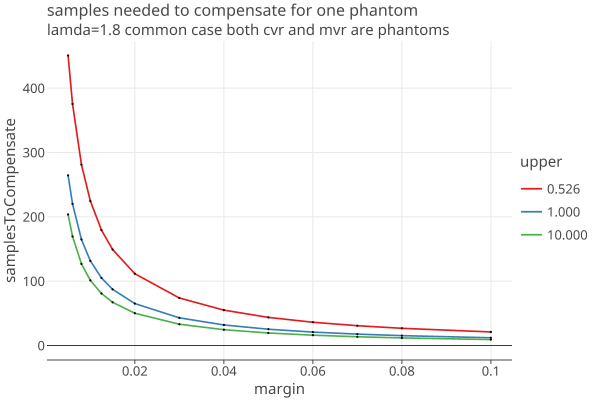
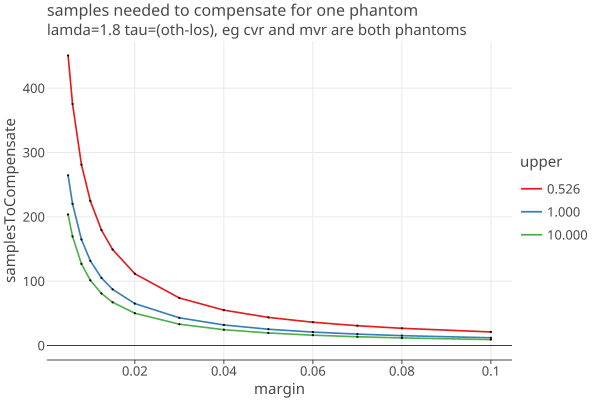
update docs pass 3

Changed region(s): [[0.21, 0.06, 0.78, 0.09]]

diff --git a/docs/plots2/betting/errorComp/phantomMvr.html b/docs/plots2/betting/errorComp/phantomMvr.html
@@ -5,7 +5,7 @@
        &lt;script type=&quot;text/javascript&quot; data-lets-plot-script=&quot;library&quot; src=&quot;https://cdn.jsdelivr.net/gh/JetBrains/lets-plot@v4.7.3/js-package/distr/lets-plot.min.js&quot;>&lt;/script>
    &lt;/head>
    &lt;body>
-          &lt;div id=&quot;qKUZuP&quot;>&lt;/div>
+          &lt;div id=&quot;WTQVve&quot;>&lt;/div>
    &lt;script type=&quot;text/javascript&quot; data-lets-plot-script=&quot;plot&quot;>
    
    (function() {
@@ -30,7 +30,7 @@
        };
    }
    
-   const containerDiv = document.getElementById(&quot;qKUZuP&quot;);
+   const containerDiv = document.getElementById(&quot;WTQVve&quot;);
    let fig = null;
    
    function renderPlot() {
@@ -38,7 +38,7 @@
            const plotSpec = {
 &quot;ggtitle&quot;:{
 &quot;text&quot;:&quot;samples needed to compensate for one phantom&quot;,
-&quot;subtitle&quot;:&quot;lamda=1.8 tau=(oth-los), eg cvr and mvr are both phantoms&quot;
+&quot;subtitle&quot;:&quot;lamda=1.8 cvr is winner and mvr is phantom&quot;
 },
 &quot;mapping&quot;:{
 },
@@ -70,10 +70,10 @@
 },
 &quot;stat&quot;:&quot;identity&quot;,
 &quot;data&quot;:{
-&quot;&amp;merged_groups&quot;:[&quot;0.526&quot;,&quot;0.526&quot;,&quot;0.526&quot;,&quot;0.526&quot;,&quot;0.526&quot;,&quot;0.526&quot;,&quot;0.526&quot;,&quot;0.526&quot;,&quot;0.526&quot;,&quot;0.526&quot;,&quot;0.526&quot;,&quot;0.526&quot;,&quot;0.526&quot;,&quot;0.526&quot;,&quot;1.000&quot;,&quot;1.000&quot;,&quot;1.000&quot;,&quot;1.000&quot;,&quot;1.000&quot;,&quot;1.000&quot;,&quot;1.000&quot;,&quot;1.000&quot;,&quot;1.000&quot;,&quot;1.000&quot;,&quot;1.000&quot;,&quot;1.000&quot;,&quot;1.000&quot;,&quot;1.000&quot;,&quot;10.000&quot;,&quot;10.000&quot;,&quot;10.000&quot;,&quot;10.000&quot;,&quot;10.000&quot;,&quot;10.000&quot;,&quot;10.000&quot;,&quot;10.000&quot;,&quot;10.000&quot;,&quot;10.000&quot;,&quot;10.000&quot;,&quot;10.000&quot;,&quot;10.000&quot;,&quot;10.000&quot;],
 &quot;margin&quot;:[0.005,0.006,0.008,0.01,0.0125,0.015,0.02,0.03,0.04,0.05,0.06,0.07,0.08,0.1,0.005,0.006,0.008,0.01,0.0125,0.015,0.02,0.03,0.04,0.05,0.06,0.07,0.08,0.1,0.005,0.006,0.008,0.01,0.0125,0.015,0.02,0.03,0.04,0.05,0.06,0.07,0.08,0.1],
+&quot;&amp;merged_groups&quot;:[&quot;0.526&quot;,&quot;0.526&quot;,&quot;0.526&quot;,&quot;0.526&quot;,&quot;0.526&quot;,&quot;0.526&quot;,&quot;0.526&quot;,&quot;0.526&quot;,&quot;0.526&quot;,&quot;0.526&quot;,&quot;0.526&quot;,&quot;0.526&quot;,&quot;0.526&quot;,&quot;0.526&quot;,&quot;1.000&quot;,&quot;1.000&quot;,&quot;1.000&quot;,&quot;1.000&quot;,&quot;1.000&quot;,&quot;1.000&quot;,&quot;1.000&quot;,&quot;1.000&quot;,&quot;1.000&quot;,&quot;1.000&quot;,&quot;1.000&quot;,&quot;1.000&quot;,&quot;1.000&quot;,&quot;1.000&quot;,&quot;10.000&quot;,&quot;10.000&quot;,&quot;10.000&quot;,&quot;10.000&quot;,&quot;10.000&quot;,&quot;10.000&quot;,&quot;10.000&quot;,&quot;10.000&quot;,&quot;10.000&quot;,&quot;10.000&quot;,&quot;10.000&quot;,&quot;10.000&quot;,&quot;10.000&quot;,&quot;10.000&quot;],
 &quot;upper&quot;:[&quot;0.526&quot;,&quot;0.526&quot;,&quot;0.526&quot;,&quot;0.526&quot;,&quot;0.526&quot;,&quot;0.526&quot;,&quot;0.526&quot;,&quot;0.526&quot;,&quot;0.526&quot;,&quot;0.526&quot;,&quot;0.526&quot;,&quot;0.526&quot;,&quot;0.526&quot;,&quot;0.526&quot;,&quot;1.000&quot;,&quot;1.000&quot;,&quot;1.000&quot;,&quot;1.000&quot;,&quot;1.000&quot;,&quot;1.000&quot;,&quot;1.000&quot;,&quot;1.000&quot;,&quot;1.000&quot;,&quot;1.000&quot;,&quot;1.000&quot;,&quot;1.000&quot;,&quot;1.000&quot;,&quot;1.000&quot;,&quot;10.000&quot;,&quot;10.000&quot;,&quot;10.000&quot;,&quot;10.000&quot;,&quot;10.000&quot;,&quot;10.000&quot;,&quot;10.000&quot;,&quot;10.000&quot;,&quot;10.000&quot;,&quot;10.000&quot;,&quot;10.000&quot;,&quot;10.000&quot;,&quot;10.000&quot;,&quot;10.000&quot;],
-&quot;samplesToCompensate&quot;:[450.73346273057285,375.3567307214835,281.1356381797272,224.60279275466985,179.37630199200353,149.22510882329695,111.53566632602835,73.84500900585952,54.99844798340472,43.68950825064921,36.14936441990801,30.76280526866057,26.72222487526634,21.063787221225176,264.43069263138386,220.14642924006787,164.79106911177584,131.57782005010625,105.00718363979364,87.29339157141649,65.15107377602841,43.00854794889624,31.93707584378167,25.294024102450862,20.865181594255727,17.701600681973773,15.328807538264904,12.006636866218702,203.61682286321644,169.51020146114692,126.87692449104908,101.29695807703726,80.8329846847646,67.19033551483017,50.13702350843178,33.08371005074382,24.55705186984873,19.44105579891348,16.030390782336724,13.594200653424542,11.76705732883267,9.209054925915632]
+&quot;samplesToCompensate&quot;:[536.8852679091235,447.1695651051687,335.02481224923247,267.7378275451257,213.90808965396533,178.02145820426563,133.1628532993993,88.30339893323907,65.87281083364601,52.41375799639613,43.440463176978795,37.03045019753686,32.22248077329216,25.490195202397953,1021.9635847778693,851.4016394287654,638.1991426423307,510.2775750346166,407.9402425800391,339.71528157304397,254.43391627684412,169.15211141655288,126.51076635063215,100.9256022194716,83.8685260367704,71.68464077950563,62.54649791041474,49.75254215690585,10232.304345905057,8526.685749864806,6394.662498333337,5115.448540504431,4092.0773664621606,3409.8299098968023,2557.020572980989,1704.211192813598,1277.8064594495418,1021.9635847778693,851.4016394287654,729.5716536719206,638.1991426423307,510.2775750346166]
 },
 &quot;sampling&quot;:&quot;none&quot;,
 &quot;inherit_aes&quot;:false,
@@ -102,10 +102,10 @@
 },
 &quot;stat&quot;:&quot;identity&quot;,
 &quot;data&quot;:{
-&quot;&amp;merged_groups&quot;:[&quot;0.526&quot;,&quot;0.526&quot;,&quot;0.526&quot;,&quot;0.526&quot;,&quot;0.526&quot;,&quot;0.526&quot;,&quot;0.526&quot;,&quot;0.526&quot;,&quot;0.526&quot;,&quot;0.526&quot;,&quot;0.526&quot;,&quot;0.526&quot;,&quot;0.526&quot;,&quot;0.526&quot;,&quot;1.000&quot;,&quot;1.000&quot;,&quot;1.000&quot;,&quot;1.000&quot;,&quot;1.000&quot;,&quot;1.000&quot;,&quot;1.000&quot;,&quot;1.000&quot;,&quot;1.000&quot;,&quot;1.000&quot;,&quot;1.000&quot;,&quot;1.000&quot;,&quot;1.000&quot;,&quot;1.000&quot;,&quot;10.000&quot;,&quot;10.000&quot;,&quot;10.000&quot;,&quot;10.000&quot;,&quot;10.000&quot;,&quot;10.000&quot;,&quot;10.000&quot;,&quot;10.000&quot;,&quot;10.000&quot;,&quot;10.000&quot;,&quot;10.000&quot;,&quot;10.000&quot;,&quot;10.000&quot;,&quot;10.000&quot;],
 &quot;margin&quot;:[0.005,0.006,0.008,0.01,0.0125,0.015,0.02,0.03,0.04,0.05,0.06,0.07,0.08,0.1,0.005,0.006,0.008,0.01,0.0125,0.015,0.02,0.03,0.04,0.05,0.06,0.07,0.08,0.1,0.005,0.006,0.008,0.01,0.0125,0.015,0.02,0.03,0.04,0.05,0.06,0.07,0.08,0.1],
+&quot;&amp;merged_groups&quot;:[&quot;0.526&quot;,&quot;0.526&quot;,&quot;0.526&quot;,&quot;0.526&quot;,&quot;0.526&quot;,&quot;0.526&quot;,&quot;0.526&quot;,&quot;0.526&quot;,&quot;0.526&quot;,&quot;0.526&quot;,&quot;0.526&quot;,&quot;0.526&quot;,&quot;0.526&quot;,&quot;0.526&quot;,&quot;1.000&quot;,&quot;1.000&quot;,&quot;1.000&quot;,&quot;1.000&quot;,&quot;1.000&quot;,&quot;1.000&quot;,&quot;1.000&quot;,&quot;1.000&quot;,&quot;1.000&quot;,&quot;1.000&quot;,&quot;1.000&quot;,&quot;1.000&quot;,&quot;1.000&quot;,&quot;1.000&quot;,&quot;10.000&quot;,&quot;10.000&quot;,&quot;10.000&quot;,&quot;10.000&quot;,&quot;10.000&quot;,&quot;10.000&quot;,&quot;10.000&quot;,&quot;10.000&quot;,&quot;10.000&quot;,&quot;10.000&quot;,&quot;10.000&quot;,&quot;10.000&quot;,&quot;10.000&quot;,&quot;10.000&quot;],
 &quot;upper&quot;:[&quot;0.526&quot;,&quot;0.526&quot;,&quot;0.526&quot;,&quot;0.526&quot;,&quot;0.526&quot;,&quot;0.526&quot;,&quot;0.526&quot;,&quot;0.526&quot;,&quot;0.526&quot;,&quot;0.526&quot;,&quot;0.526&quot;,&quot;0.526&quot;,&quot;0.526&quot;,&quot;0.526&quot;,&quot;1.000&quot;,&quot;1.000&quot;,&quot;1.000&quot;,&quot;1.000&quot;,&quot;1.000&quot;,&quot;1.000&quot;,&quot;1.000&quot;,&quot;1.000&quot;,&quot;1.000&quot;,&quot;1.000&quot;,&quot;1.000&quot;,&quot;1.000&quot;,&quot;1.000&quot;,&quot;1.000&quot;,&quot;10.000&quot;,&quot;10.000&quot;,&quot;10.000&quot;,&quot;10.000&quot;,&quot;10.000&quot;,&quot;10.000&quot;,&quot;10.000&quot;,&quot;10.000&quot;,&quot;10.000&quot;,&quot;10.000&quot;,&quot;10.000&quot;,&quot;10.000&quot;,&quot;10.000&quot;,&quot;10.000&quot;],
-&quot;samplesToCompensate&quot;:[450.73346273057285,375.3567307214835,281.1356381797272,224.60279275466985,179.37630199200353,149.22510882329695,111.53566632602835,73.84500900585952,54.99844798340472,43.68950825064921,36.14936441990801,30.76280526866057,26.72222487526634,21.063787221225176,264.43069263138386,220.14642924006787,164.79106911177584,131.57782005010625,105.00718363979364,87.29339157141649,65.15107377602841,43.00854794889624,31.93707584378167,25.294024102450862,20.865181594255727,17.701600681973773,15.328807538264904,12.006636866218702,203.61682286321644,169.51020146114692,126.87692449104908,101.29695807703726,80.8329846847646,67.19033551483017,50.13702350843178,33.08371005074382,24.55705186984873,19.44105579891348,16.030390782336724,13.594200653424542,11.76705732883267,9.209054925915632]
+&quot;samplesToCompensate&quot;:[536.8852679091235,447.1695651051687,335.02481224923247,267.7378275451257,213.90808965396533,178.02145820426563,133.1628532993993,88.30339893323907,65.87281083364601,52.41375799639613,43.440463176978795,37.03045019753686,32.22248077329216,25.490195202397953,1021.9635847778693,851.4016394287654,638.1991426423307,510.2775750346166,407.9402425800391,339.71528157304397,254.43391627684412,169.15211141655288,126.51076635063215,100.9256022194716,83.8685260367704,71.68464077950563,62.54649791041474,49.75254215690585,10232.304345905057,8526.685749864806,6394.662498333337,5115.448540504431,4092.0773664621606,3409.8299098968023,2557.020572980989,1704.211192813598,1277.8064594495418,1021.9635847778693,851.4016394287654,729.5716536719206,638.1991426423307,510.2775750346166]
 },
 &quot;size&quot;:1.0,
 &quot;shape&quot;:16.0,

diff --git a/plots/src/test/kotlin/org/cryptobiotic/rlauxe/betting/PlotErrorCompensation.kt b/plots/src/test/kotlin/org/cryptobiotic/rlauxe/betting/PlotErrorCompensation.kt
@@ -208,8 +208,41 @@ class PlotErrorCompensation {
             }
         }
 
-        plotWithUpper(results, "phantomByUpper", "lamda=$lamda common case both cvr and mvr are phantoms", scale = ScaleType.Linear)
+        plotWithUpper(results, "phantomByUpper", "lamda=$lamda tau=(oth-los), eg cvr and mvr are both phantoms", scale = ScaleType.Linear)
     }
+
+    @Test
+    fun plotPhantomMvr() {
+        val lamda = 1.8
+        val uppers = listOf(.526, 1.0, 10.0)
+
+        val results = mutableListOf<BettingPayoffRatio>()
+        uppers.forEach { upper ->
+            margins.forEach { margin ->
+                val tau = 0.0
+                val noerror = 1 / (2 - margin / upper)
+                val payoffNoerror = 1.0 + lamda * (noerror - 0.5)
+
+                val payoffPhantom = 1.0 + lamda * (tau*noerror - 0.5)
+                val samplesToCompensate = -ln(payoffPhantom) / ln(payoffNoerror)
+
+                val (n, ntau) = calcNtau(lamda, noerror, tau)
+                if (!doubleIsClose(ntau, samplesToCompensate))
+                    print("HEY")
+
+                results.add(
+                    BettingPayoffRatio(
+                        cat = dfn(upper, 3),
+                        payoffRatio = samplesToCompensate,
+                        margin = margin
+                    )
+                )
+            }
+        }
+
+        plotWithUpper(results, "phantomMvr", "lamda=$lamda cvr is winner and mvr is phantom", scale = ScaleType.Linear)
+    }
+
 
     fun plotWithUpper(data: List<BettingPayoffRatio>, name: String, subtitle: String, scale: ScaleType = ScaleType.Linear) {
         validateOutputDir(Path(dirName))

diff --git a/docs/ClcaErrors.md b/docs/ClcaErrors.md
@@ -1,5 +1,5 @@
 # CLCA errors
-2/15/2026
+2/18/2026
 
 <!-- TOC -->
 * [CLCA errors](#clca-errors)
@@ -100,46 +100,22 @@ DHondt upperBound=1.7500, noerror=0.51470588
      loser-winner tau= 2.0000 '      2' (los-win)
 ````
 
-When you throw phantoms into the mix:
-
-````
-     winner-loser tau= 0.0000 '      0' (win-los)
-   winner-phantom tau= 0.0000 '      0' (win-los) = (win-pha)
-     winner-other tau= 0.2857 '   1/2u' (win-oth)
-      other-loser tau= 0.7143 ' 1-1/2u' (oth-los)
-    other-phantom tau= 0.7143 ' 1-1/2u' (oth-los) = (oth-pha)
-    phantom-loser tau= 0.7143 ' 1-1/2u' (oth-los) = (pha-los)
-  phantom-phantom tau= 0.7143 ' 1-1/2u' (oth-los) = (pha-pha)
-    winner-winner tau= 1.0000 'noerror' (noerror)
-      other-other tau= 1.0000 'noerror' (noerror)
-      loser-loser tau= 1.0000 'noerror' (noerror)
-    loser-phantom tau= 1.0000 'noerror' (noerror) = (los-pha)
-    phantom-other tau= 1.0000 'noerror' (noerror) = (pha-oth)
-      loser-other tau= 1.2857 ' 1+1/2u' (los-oth)
-     other-winner tau= 1.7143 ' 2-1/2u' (oth-win)
-   phantom-winner tau= 1.7143 ' 2-1/2u' (oth-win) = (pha-win)
-     loser-winner tau= 2.0000 '      2' (los-win)
-````
-
-When the cvr is a phantom, it's the same as "oth".
-When the mvr is a phantom, it's the same as "los".
-
 ## The effects of CLCA Errors
 
 It's instructive to see the effect of each error type on the testStatistic T, which gets multiplied by the 
 payoff for that error. We will calculate the effect of one error by looking at the increase in noerror samples needed.
 
-When the mvr and cvr agree, the assort value = noerror:
+When the MVR and CVR agree, the assort value = noerror:
 
     payoff_noerror = (1 + λ * (noerror − 1/2))  ;  (µ_i is approximately 1/2)
 
-When the mvr and cvr disagree, the assort value = tau * noerror, and the payoff is
+When the MVR and CVR disagree, the assort value = tau * noerror, and the payoff is
 
     payoff_tau = (1 + λ * (tau * noerror − 1/2))
 
 How many "noerror" samples are equivilent to a single sample whose assort value = tau * noerror ?
 
-    payoff_noerror^n_tau * payoff_tau = 1.0
+    payoff_noerror^n_tau * payoff_tau = 1.0                         (eq 1)
     n_tau = -ln(payoff_tau) / ln(payoff_noerror)
     n_tau = -ln((1 + λ * (tau * noerror − 1/2)) / ln(1 + λ * (noerror − 1/2))
 
@@ -155,7 +131,7 @@ Then we fix lamda = 1.8 and show the dependence on margin for various values of 
 <a href="https://johnlcaron.github.io/rlauxe/docs/plots2/betting/errorComp/byUpperUnder1.html" rel="byUpperUnder1">![byUpperUnder1](plots2/betting/errorComp/byUpperUnder1.png)</a>
 <a href="https://johnlcaron.github.io/rlauxe/docs/plots2/betting/errorComp/byUpper10.html" rel="byUpper10">![byUpper10](plots2/betting/errorComp/byUpper10.png)</a>
 
-(The last two plots correspond to the BelowThreshold and AboveThreshold assorters with 5% threshold, as used in Belgian D'hondt elections.)
+(The last two plots correspond to the BelowThreshold and AboveThreshold assorters with 5% threshold, as used in Belgian D'Hondt elections.)
 
 * Understatement errors have the effect of decreasing the number of samples needed, shown on the plots as negetive numbers.
 
@@ -184,56 +160,57 @@ When Nc > ncvrs, we add phantom cards to make up the difference, so nphantoms = 
 
 A phantom CVR has an assort value = .5.
 
-A phantom cvr may have a valid ballot identifier, and only the scanned cvr is missing. (in this case it would be ideal to
+A phantom CVR may have a valid ballot identifier, and only the scanned CVR is missing. (in this case it would be ideal to
 locate the ballot and rescan if possible).
 
-1. If the phantom cvr gets chosen for the audit, and the ballot cannot be located (the common case), then the mvr
-   is assigned assort = 0, so overstatement = 1/2 - 0 = 1/2
+1. If the phantom CVR gets chosen for the audit, and the ballot cannot be located (the common case), then the MVR
+   is assigned assort = 0, so overstatement = 1/2 - 0 = 1/2, and the bassort value is
 
         bassort = (1-o/u) * noerror 
-        bassort = (1-1/2u)  phantom-phantom
+        bassort = (1-1/2u)              (phantom-phantom)
 
-2. If the phantom cvr gets chosen for the audit, and the ballot can be located, then we have an mvr that might have one of three sort values [0, 1/2, u].
+2. If the phantom CVR gets chosen for the audit, and the ballot can be located, then we have an MVR that might have one of three sort values [0, 1/2, u].
    The overstatement would then be cvr_assort - mvr_assort = 1/2 - [0, 1/2, u] = [1/2, 0, 1/2-u], and the bassort value is
 
 ````
     bassort = (1-o/u) * noerror 
             = 1 - [1/2, 0, 1/2-u]/u * noerror
             = [1-1/2u, 1,  2-1/2u] * noerror      for mvr = loser, oth, winner
-            =    1-1/2u     phantom-loser 
-            =    1          phantom-other 
-            =    2-1/2u     phantom-winner 
+            =    1-1/2u                 (phantom-loser)
+            =    1                      (phantom-other) 
+            =    2-1/2u                 (phantom-winner) 
 ````
 
-3. If the cvr exists, but the mvr cannot be found, then it is a phantom, and mvr_assort = 0. The cvr  might have one of three sort values [0, 1/2, u]. The overstatement would then be cvr_assort - mvr_assort = [0, 1/2, u], and the bassort value is
+3. If the CVR exists, but the MVR cannot be found, then the MVR is a phantom and mvr_assort = 0. The CVR might have one of three sort values [0, 1/2, u]. The overstatement would then be cvr_assort - mvr_assort = [0, 1/2, u], and the bassort value is
 
 ````
    bassort = (1-o/u) * noerror
            = 1 - [0, 1/2, u]/u * noerror
-           = [1, 1/2u,  0] * noerror      for cvr = loser, oth, winner
-           =    1       loser-phantom
-           =    1-1/2u  other-phantom
-           =    0       winner-phantom
+           = [1, 1/2u,  0] * noerror      for CVR = loser, oth, winner
+           =    1                       (loser-phantom)
+           =    1-1/2u                  (other-phantom)
+           =    0                       (winner-phantom)
 ````
 
 Example implementation with u !=1, for example, a Dhondt assorter with u = 1.75:
 
-       winner-loser tau= 0.0000 '      0' (win-los)
-       winner-phantom tau= 0.0000 '      0' (win-los)   
-       winner-other tau= 0.2857 '   1/2u' (win-oth)
-       other-loser tau= 0.7143 ' 1-1/2u' (oth-los)
-       other-phantom tau= 0.7143 ' 1-1/2u' (oth-los)    
-       phantom-loser tau= 0.7143 ' 1-1/2u' (oth-los)    
-       phantom-phantom tau= 0.7143 ' 1-1/2u' (oth-los)     common case
-       winner-winner tau= 1.0000 'noerror' (noerror)
-       other-other tau= 1.0000 'noerror' (noerror)
-       loser-loser tau= 1.0000 'noerror' (noerror)
-       loser-phantom tau= 1.0000 'noerror' (noerror)    
-       phantom-other tau= 1.0000 'noerror' (noerror)    
-       loser-other tau= 1.2857 ' 1+1/2u' (oth-win)
-       other-winner tau= 1.7143 ' 2-1/2u' (los-oth)
-       phantom-winner tau= 1.7143 ' 2-1/2u' (los-oth)   
-       loser-winner tau= 2.0000 '      2' (los-win)
+       winner-loser tau= 0.0000 '      0'   (win-los)
+       winner-phantom tau= 0.0000 '      0' (win-los)    (cvr is winner, mvr not found)
+       winner-other tau= 0.2857 '   1/2u'   (win-oth)
+       other-loser tau= 0.7143 ' 1-1/2u'    (oth-los)
+       other-phantom tau= 0.7143 ' 1-1/2u'  (oth-los)    (cvr is other, mvr not found)
+       phantom-loser tau= 0.7143 ' 1-1/2u'  (oth-los)    (cvr is phantom, mvr is loser)
+       phantom-phantom tau= 0.7143 ' 1-1/2u' (oth-los)   (both are phantoms, common case)
+       winner-winner tau= 1.0000 'noerror'  (noerror)
+       other-other tau= 1.0000 'noerror'    (noerror)
+       loser-loser tau= 1.0000 'noerror'    (noerror)
+       loser-phantom tau= 1.0000 'noerror'  (noerror)    (cvr is loser, mvr not found)
+       phantom-other tau= 1.0000 'noerror'  (noerror)    (cvr is phantom, mvr is other)
+       loser-other tau= 1.2857 ' 1+1/2u'    (oth-win)
+       other-winner tau= 1.7143 ' 2-1/2u'   (los-oth)
+       phantom-winner tau= 1.7143 ' 2-1/2u' (los-oth)    (cvr is phantom, mvr is winner)
+       loser-winner tau= 2.0000 '      2'   (los-win)
+
 
 when u=1:
 
@@ -245,31 +222,50 @@ when u=1:
         cvr-mvr overstatement oth-phantom = 0.5 bassort=0.5            "
         cvr-mvr overstatement phantom-phantom = 0.5 bassort=0.5    common case
 
+When the CVR is a phantom, it's the same as "oth".
+When the MVR is a phantom, it's the same as "los".
+
+**Table A** is a summary of tau names and values (where bassort = tau * noerror)
+
+| cvr - mvr       | value  | name     | SHANGRLA name |
+|-----------------|--------|----------|---------------|
+| winner-loser    | 0      | win-los  | p2o           | 
+| winner-phantom  | 0      | win-los  |               |
+| winner-other    | 1/2u   | win-oth  | p1o           |
+| other-loser     | 1-1/2u | oth-los  | p1o           |
+| other-phantom   | 1-1/2u | oth-los  |               |
+| phantom-loser   | 1-1/2u | oth-los  |               |
+| phantom-phantom | 1-1/2u | oth-los  |               |
+| winner-winner   | 1/2    | noerror  |               |
+| other-other     | 1/2    | noerror  |               |
+| loser-loser     | 1/2    | noerror  |               |
+| loser-phantom   | 1/2    | noerror  |               |
+| phantom-other   | 1/2    | noerror  |               |
+| loser-other     | 1+1/2u | los-oth  | p1u           |
+| other-winner    | 2-1/2u | oth-win  | p1u           |
+| phantom-winner  | 2-1/2u | oth-win  |               |
+| loser-winner    | 2      | los-win  | p2u           |
+
 
 ### The effect of Phantoms on samples needed
 
-Here we apply the general case as treated above to the specifics of the commmon case, namely when
-both the cvr and the mvr are phantoms.
+There are three cases involving phantoms where tau = "oth-los" (aka "p1o") = (1-1/2u)
+* both the CVR and the MVR are phantoms, which we expect to be the common case
+* CVR is phantom, MVR is loser
+* CVR is other, MVR not found
 
-A phantom-phantom bassort = (1-1/2u) * noerror. How many noerror samples are needed to offset this assort value?
-
-    payoff_noerror = (1 + λ * (noerror − 1/2))  ;  (µ_i is approximately 1/2)
-    payoff_phantom = (1 + λ * ((1-1/2u)* noerror − 1/2))
-
-How many "noerror" samples are equivilent to a single sample whose assort value = tau * noerror ?
-
-    payoff_noerror^n_phantom  * payoff_phantom  = 1.0
-    n_phantom  = -ln(payoff_n_phantom ) / ln(payoff_noerror)
-
-Here is a plot of n_phantom for several values of upper:
+Using eq 1 above, here is a plot of number of noerror samples needed to compendate for one "oth-los" error for several values of upper:
 
 <a href="https://johnlcaron.github.io/rlauxe/docs/plots2/betting/errorComp/phantomByUpper.html" rel="phantomByUpper">![phantomByUpper](plots2/betting/errorComp/phantomByUpper.png)</a>
 
 * The extra samples are non-trivial up to say, margins of .05 for plurality contests, and larger for D'Hondt contests when
   upper gets close to 1/2.
 
-* When applied to a real audit, one must take into account the probability of encountering a phantom in the sampled population. This will roughly be
-  nphantoms * sampleSize / populationSize.
+The other problematic case is when CVR has a vote for the winner, but the MVR cant be found. Then tau = "win-los" (aka "p2o") = 0:
+
+<a href="https://johnlcaron.github.io/rlauxe/docs/plots2/betting/errorComp/phantomMvr.html" rel="phantomMvr">![phantomMvr](plots2/betting/errorComp/phantomMvr.png)</a>
+
+The possibility that MVRs can't be located during the audit adds a big element of uncertainty.
 
 
 

diff --git a/README.md b/README.md
@@ -9,10 +9,9 @@ The Rlauxe library is an independent implementation of the SHANGRLA framework, b
 
 The [SHANGRLA python library](https://github.com/pbstark/SHANGRLA) is the work of Philip Stark and collaborators, released under the AGPL-3.0 license.
 
-Rlauxe uses the [Raire Java library](https://github.com/DemocracyDevelopers/raire-java) for Ranked Choice contests, also
-called Instant runoff Voting (IRV).
+Rlauxe uses the [Raire Java library](https://github.com/DemocracyDevelopers/raire-java) for Ranked Choice contests, also called Instant runoff Voting (IRV).
 Raire-Java is Copyright 2023-2025 Democracy Developers. It is based on software (c) Michelle Blom in C++
-https://github.com/michelleblom/audit-irv-cp/tree/raire-branch , and released under the GNU General Public License v3.0.
+https://github.com/michelleblom/audit-irv-cp/tree/raire-branch, and released under the GNU General Public License v3.0.
 
 Click on plot images to get an interactive html plot. You can also read this document on [github.io](https://johnlcaron.github.io/rlauxe/).
 
